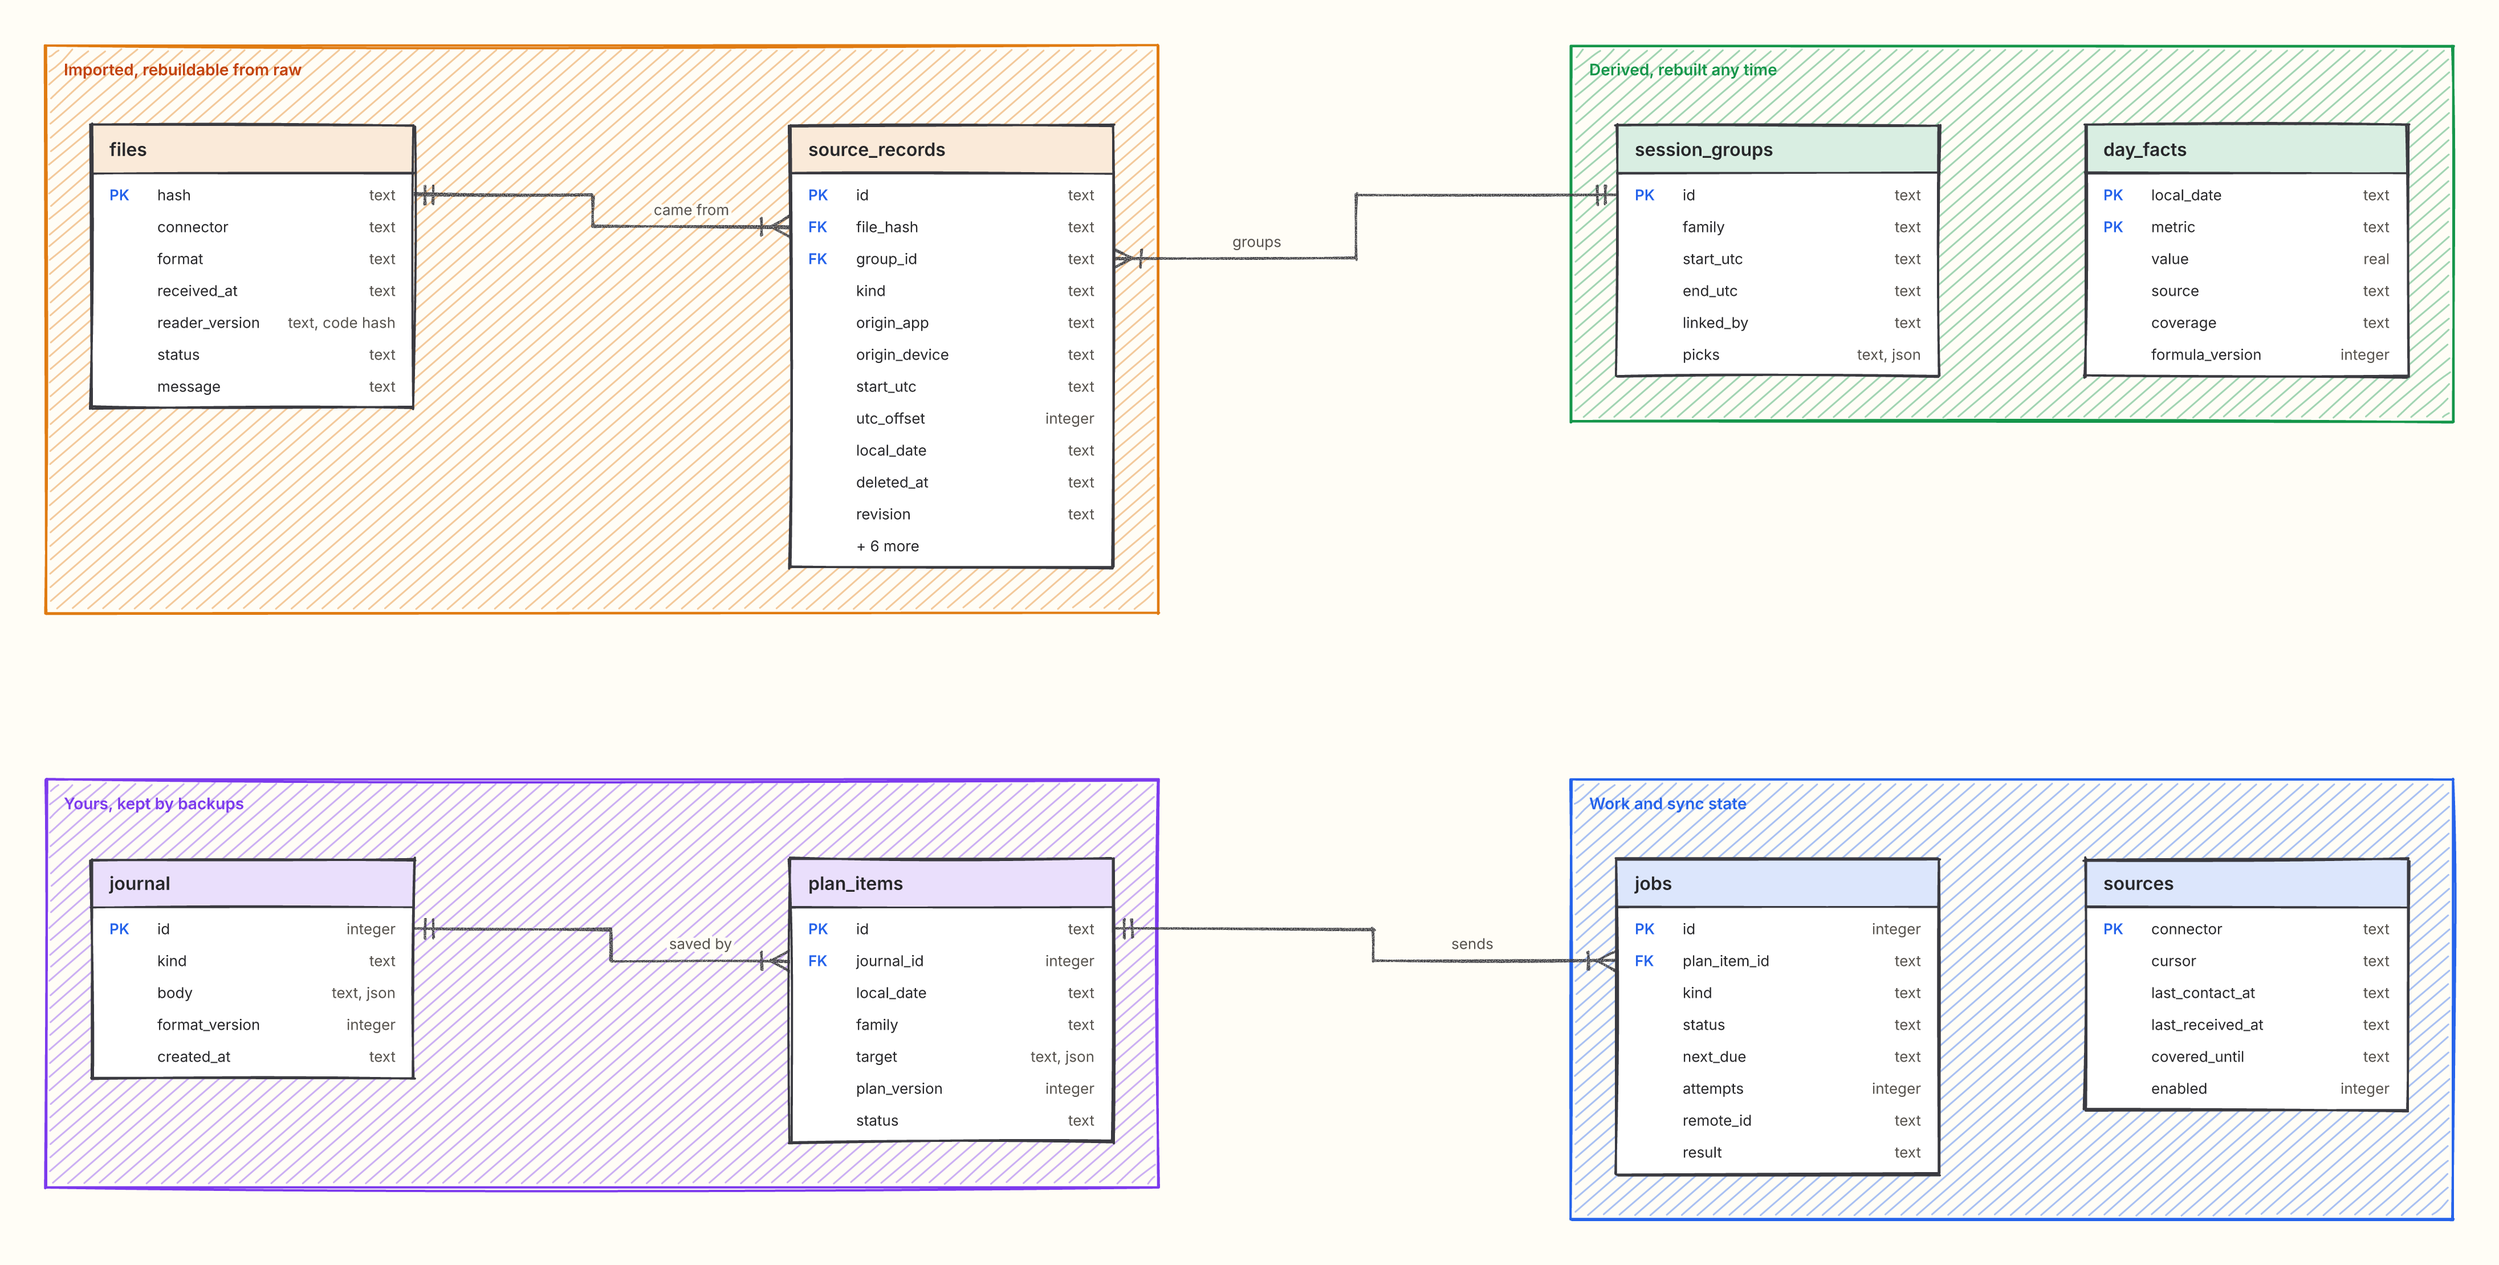
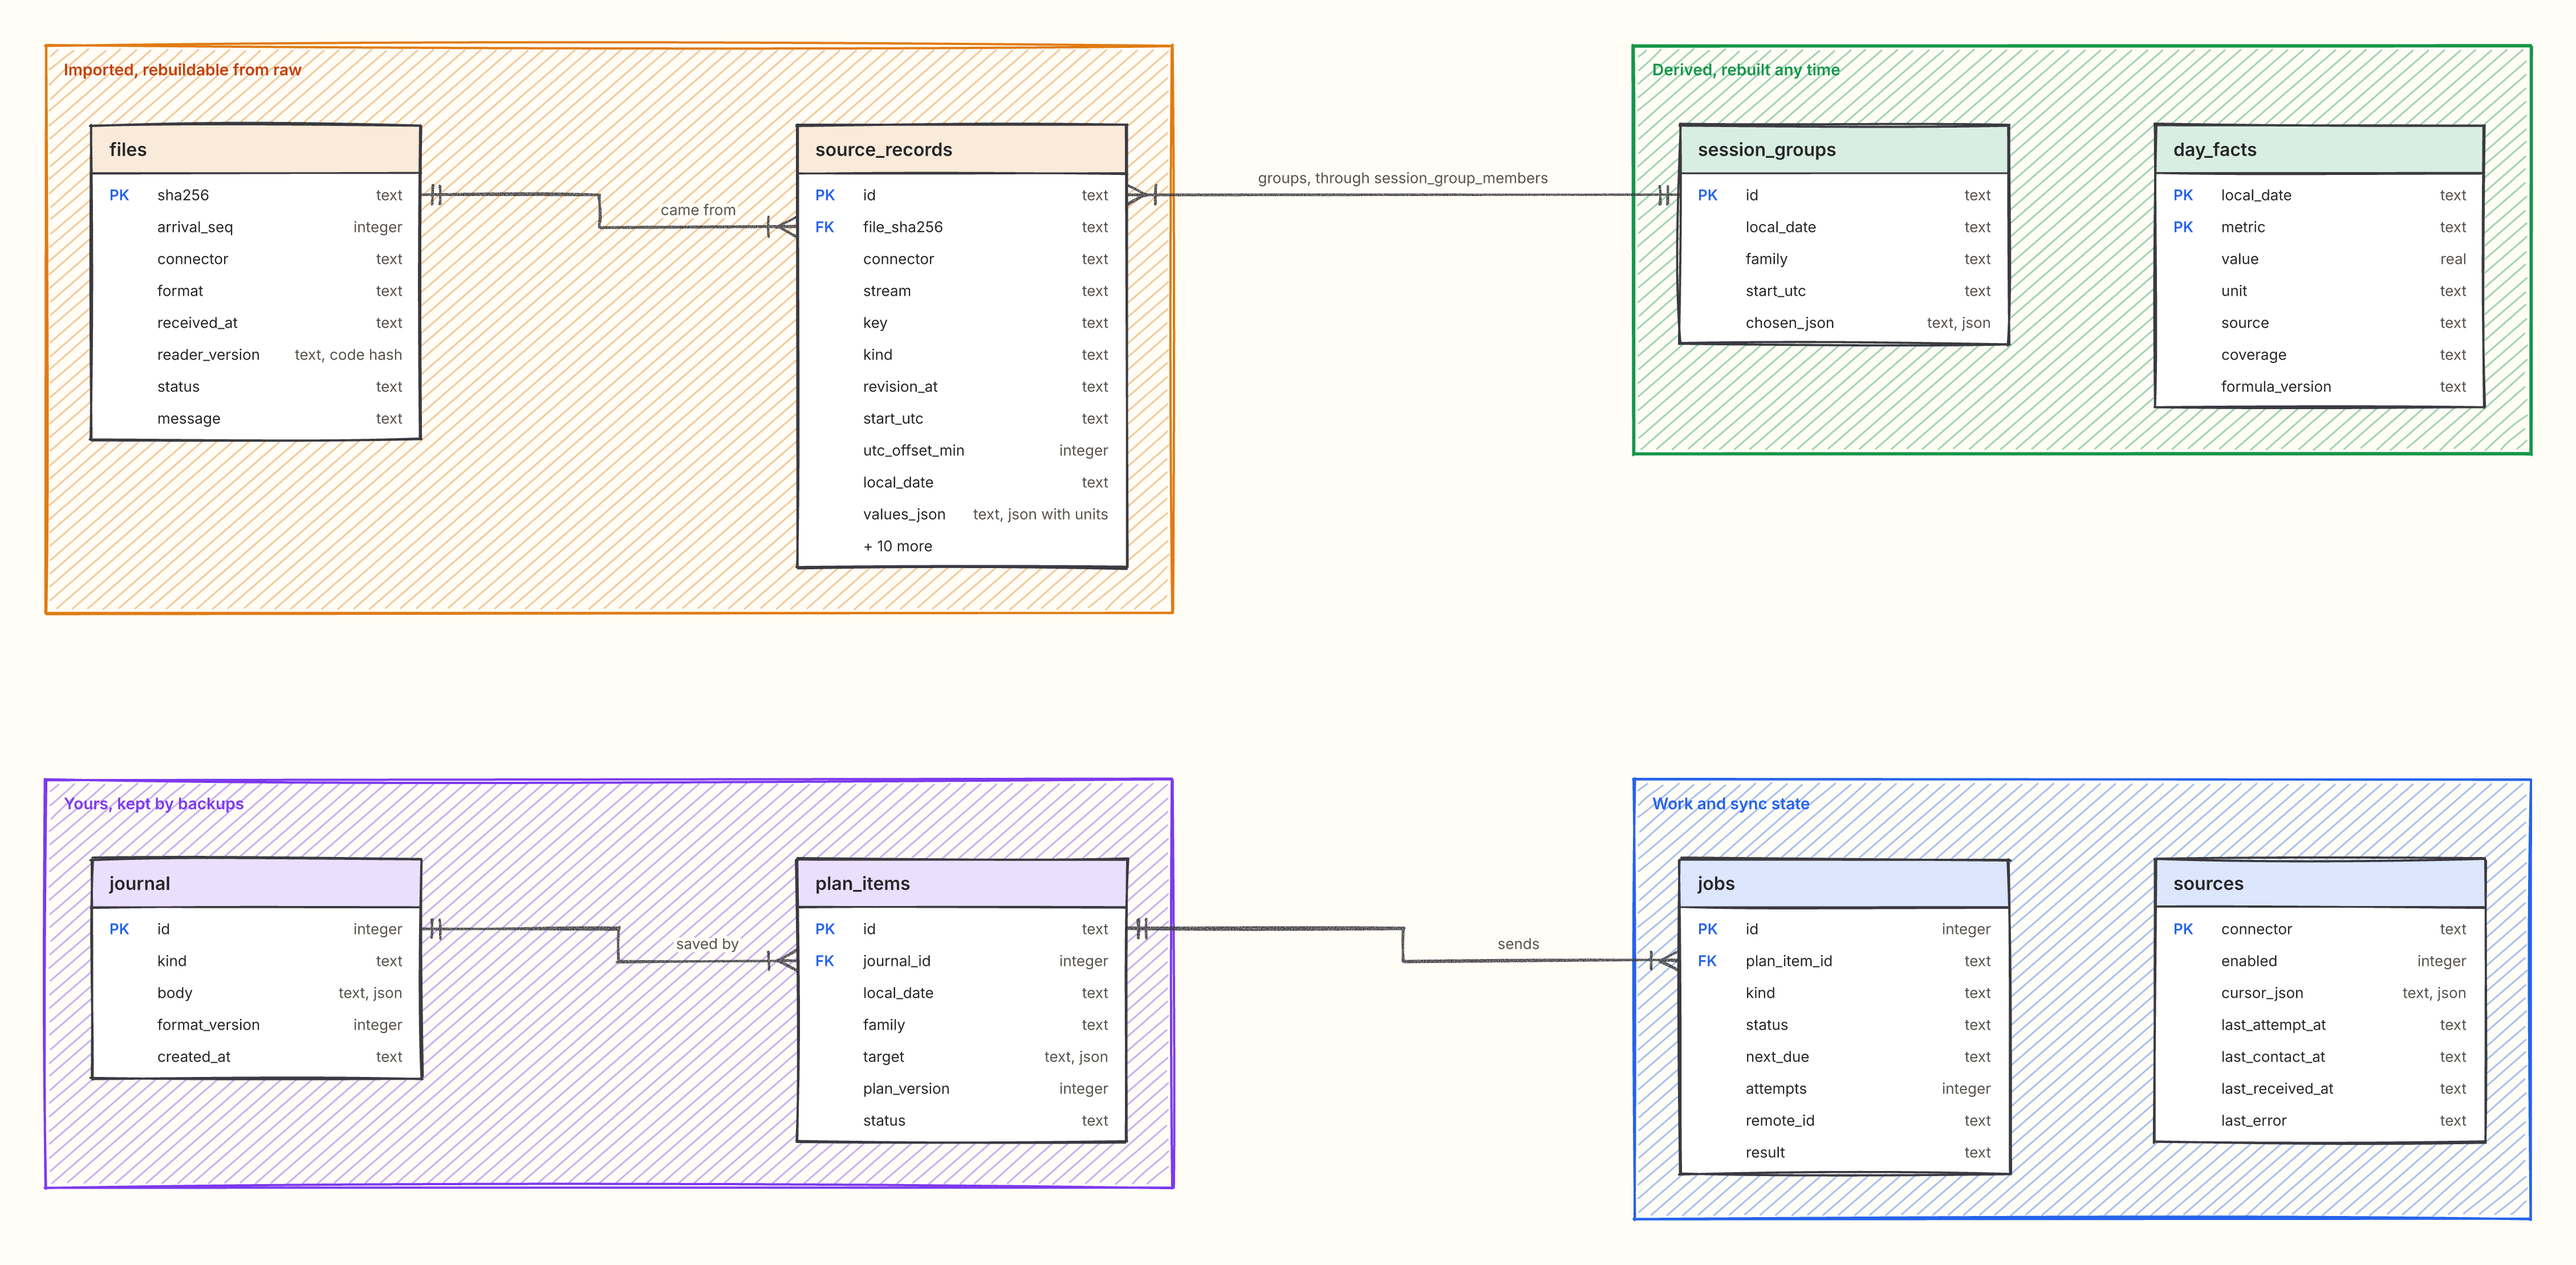
Match the table diagram and code map to the 0.1 schema, and allow do_GET in the web server
The table diagram used old column names and showed formula_version as an
integer. The 0.1 schema keeps it as text and keeps units inside values_json.
http.server calls handlers by the fixed names do_GET and do_POST, so the web
server file gets a named exception to the lowercase function rule.

Claude-Session: https://claude.ai/code/session_01Qr5NFGqqPUPBvMtTgAMjXv

diff --git a/docs/code-map.md b/docs/code-map.md
@@ -99,7 +99,7 @@ Each milestone adds one numbered migration for the tables it needs. `0001_init.s
 |---|---|---|
 | `files` | Imported | One row per raw file: hash, arrival order, connector, format, received time, reader hash, status (new, reading, ok, partial, unreadable, needs AI, failed, missing), message |
 | `sources` | Sync state | One row per connector: enabled, cursor, last attempt, last contact, last received, last error. "Data covered until" is computed from `source_records`. |
-| `source_records` | Imported | One row per record a reader returned: id, file hash, kind, stream, key, revision, start in UTC, UTC offset, local date, family, label, values JSON, units, origin app, origin device, plan reference, deleted time |
+| `source_records` | Imported | One row per record a reader returned: id, file hash, kind, stream, key, revision, start in UTC, UTC offset, local date, family, label, values JSON with units, origin app, origin device, plan reference, deleted time |
 | `source_deletes` | Imported | Deletes an app reported, kept even when the record has not arrived yet, so an older file read late cannot bring it back |
 | `session_parts` | Imported | Laps, sets, rounds and splits, for both recorded and planned sessions |
 | `session_groups` | Derived | Records linked as one workout, with the chosen value per field and its source |
